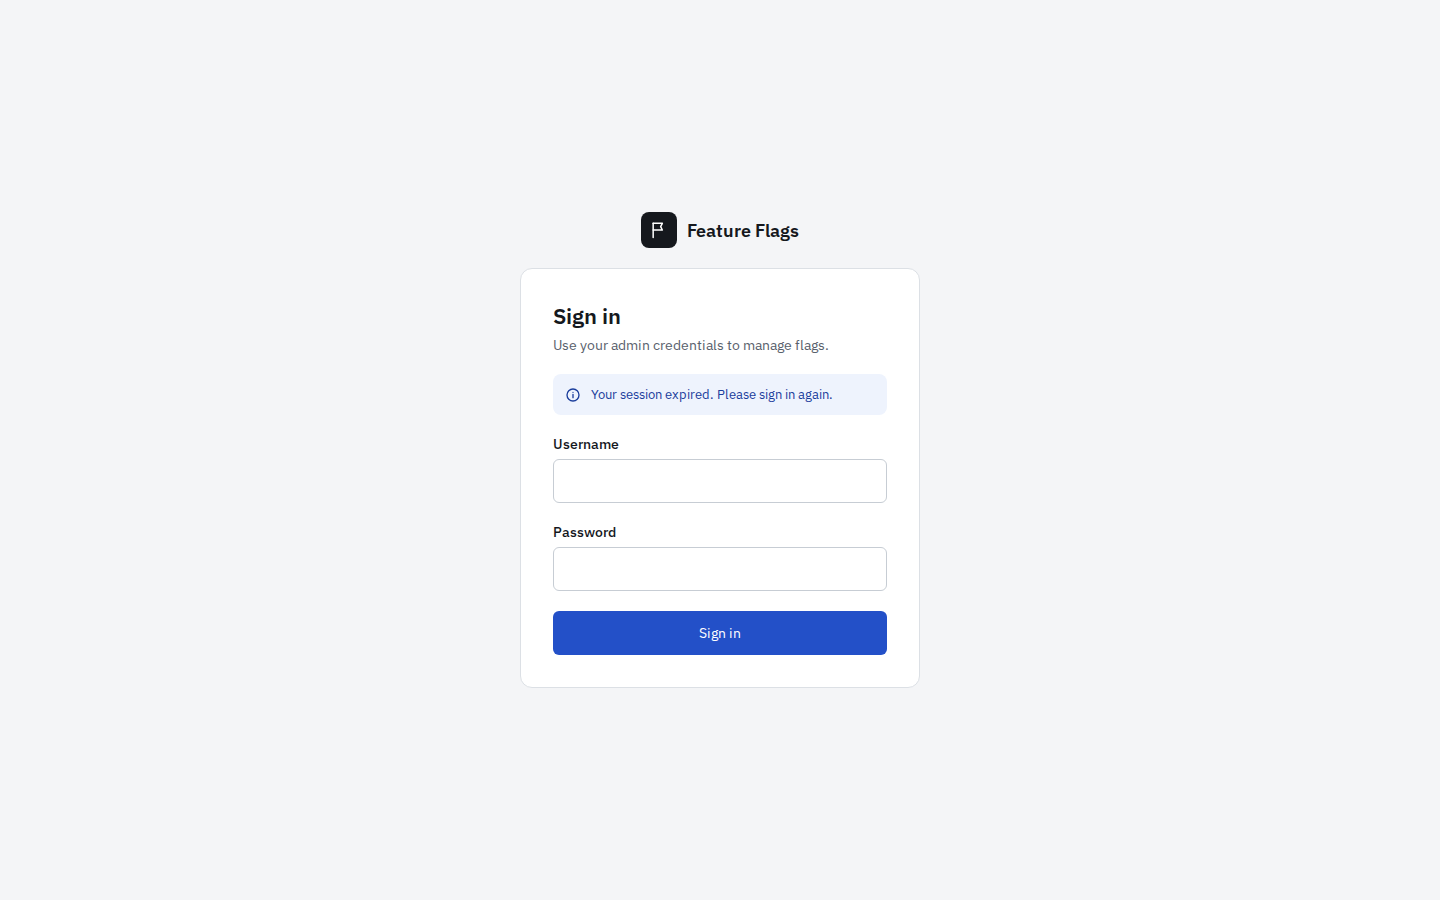
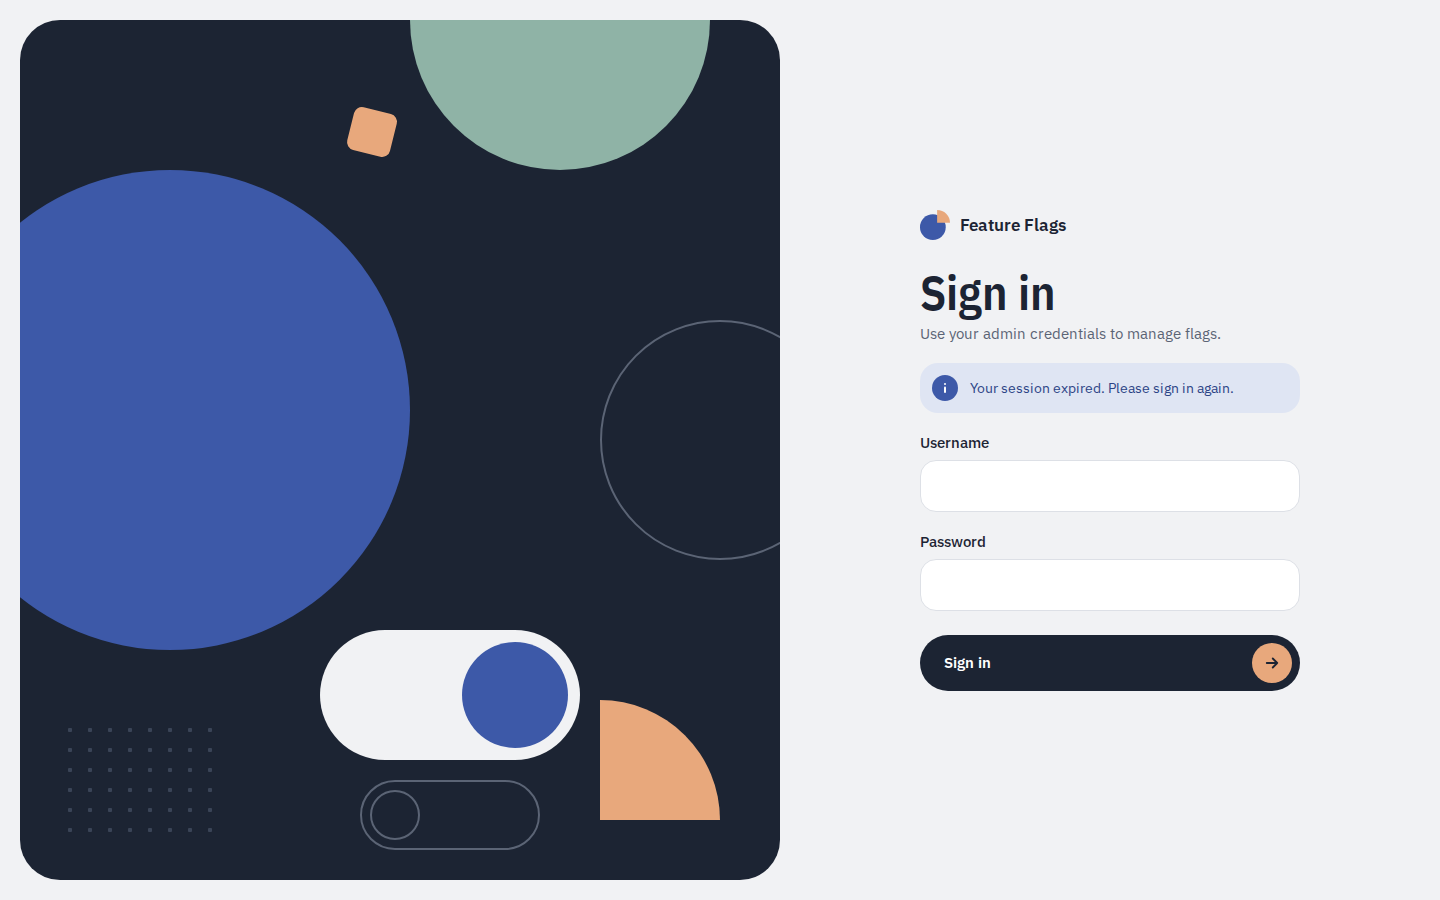
M12 design: re-record the five screenshot baselines and the design gallery
Baselines of the five screens with the redesign (DECISIONS D-005, one entry per screen).
scripts/design-compare.sh now links the designs in docs/product/design/ (D-006);
docs/design-compare/ regenerated. The search icon takes its colour from a token.

AC: AC-STYLE-1, AC-UI-1
Spec: 005 §4.1, §4.8

Claude-Session: https://claude.ai/code/session_0192GzVxcAqoj8Qik4T7WdXQ

diff --git a/docs/design-compare/index.html b/docs/design-compare/index.html
@@ -24,35 +24,35 @@
 <h2>1 · Sign in</h2>
 <div class="pair">
 <figure><figcaption>Built</figcaption><img src="1-sign-in-built.png" alt="Built: 1 · Sign in"></figure>
-<figure><figcaption>Design</figcaption><img src="../design/1%20%C2%B7%20Sign%20in.png" alt="Design: 1 · Sign in"></figure>
+<figure><figcaption>Design</figcaption><img src="../product/design/1%20%C2%B7%20Sign%20in.png" alt="Design: 1 · Sign in"></figure>
 </div>
 </section>
 <section>
 <h2>2 · Flags workspace</h2>
 <div class="pair">
 <figure><figcaption>Built</figcaption><img src="2-flags-workspace-built.png" alt="Built: 2 · Flags workspace"></figure>
-<figure><figcaption>Design</figcaption><img src="../design/2%20%C2%B7%20Flags%20workspace.png" alt="Design: 2 · Flags workspace"></figure>
+<figure><figcaption>Design</figcaption><img src="../product/design/2%20%C2%B7%20Flags%20workspace.png" alt="Design: 2 · Flags workspace"></figure>
 </div>
 </section>
 <section>
 <h2>3 · New flag dialog</h2>
 <div class="pair">
 <figure><figcaption>Built</figcaption><img src="3-new-flag-dialog-built.png" alt="Built: 3 · New flag dialog"></figure>
-<figure><figcaption>Design</figcaption><img src="../design/3%20%C2%B7%20New%20flag%20dialog.png" alt="Design: 3 · New flag dialog"></figure>
+<figure><figcaption>Design</figcaption><img src="../product/design/3%20%C2%B7%20New%20flag%20dialog.png" alt="Design: 3 · New flag dialog"></figure>
 </div>
 </section>
 <section>
 <h2>4 · Delete group confirmation</h2>
 <div class="pair">
 <figure><figcaption>Built</figcaption><img src="4-delete-group-confirmation-built.png" alt="Built: 4 · Delete group confirmation"></figure>
-<figure><figcaption>Design</figcaption><img src="../design/4%20%C2%B7%20Delete%20group%20confirmation.png" alt="Design: 4 · Delete group confirmation"></figure>
+<figure><figcaption>Design</figcaption><img src="../product/design/4%20%C2%B7%20Delete%20group%20confirmation.png" alt="Design: 4 · Delete group confirmation"></figure>
 </div>
 </section>
 <section>
 <h2>5 · Audit log</h2>
 <div class="pair">
 <figure><figcaption>Built</figcaption><img src="5-audit-log-built.png" alt="Built: 5 · Audit log"></figure>
-<figure><figcaption>Design</figcaption><img src="../design/5%20%C2%B7%20Audit%20log.png" alt="Design: 5 · Audit log"></figure>
+<figure><figcaption>Design</figcaption><img src="../product/design/5%20%C2%B7%20Audit%20log.png" alt="Design: 5 · Audit log"></figure>
 </div>
 </section>
 </body>

diff --git a/frontend/src/features/groups/GroupList.tsx b/frontend/src/features/groups/GroupList.tsx
@@ -114,7 +114,7 @@ export function SearchIcon() {
       height="16"
       viewBox="0 0 24 24"
       fill="none"
-      stroke="#5B6475"
+      stroke="currentColor"
       strokeWidth="2"
       strokeLinecap="round"
       aria-hidden="true"

diff --git a/frontend/src/features/groups/GroupPanel.module.css b/frontend/src/features/groups/GroupPanel.module.css
@@ -162,6 +162,7 @@
   left: 16px;
   top: 50%;
   margin-top: -8px;
+  color: var(--color-text-muted);
   pointer-events: none;
 }
 .searchInput {

diff --git a/frontend/src/features/audit/AuditPage.module.css b/frontend/src/features/audit/AuditPage.module.css
@@ -92,6 +92,7 @@
   left: 16px;
   top: 50%;
   margin-top: -8px;
+  color: var(--color-text-muted);
   pointer-events: none;
 }
 .searchInput {

diff --git a/frontend/src/features/groups/GroupList.module.css b/frontend/src/features/groups/GroupList.module.css
@@ -31,6 +31,7 @@
   left: 16px;
   top: 50%;
   margin-top: -8px;
+  color: var(--color-text-muted);
   pointer-events: none;
 }
 .searchInput {

diff --git a/docs/specs/005-ui-redesign/builder/DECISIONS.md b/docs/specs/005-ui-redesign/builder/DECISIONS.md
@@ -40,3 +40,26 @@ host and packages them in images that copy the runtime stages of the repo Docker
 OS package upgrade (dev helper outside the repo). So locally gates 11, 12, 13 and the image scan
 of gate 10 cannot run through `make verify`; CI (`make verify-all` in `.github/workflows/ci.yml`)
 runs them on every push. No repository file changes for this.
+
+## D-005 · 2026-10-20 · 4.1, testing.md 11.6 item 2 · Screenshot baselines re-recorded for the redesign
+
+Reason for all five: spec 005 replaces the look of every screen (designs 1 to 5 of
+`docs/product/design/`). Recorded with `--update-snapshots` on `chromium-desktop` in the official
+Playwright image (`mcr.microsoft.com/playwright:v1.63.0-noble`) against a fresh stack seeded by
+`scripts/lib/seed-shots.sh`, UI built from the redesign code; then checked with `--repeat-each=2`.
+
+- Screen 1, sign in: `1-sign-in-chromium-desktop-linux.png` (art panel, dark Sign in button).
+- Screen 2, flags workspace: `2-flags-workspace-chromium-desktop-linux.png` (pill top bar, pie,
+  header card, row cards).
+- Screen 3, new flag dialog: `3-new-flag-dialog-chromium-desktop-linux.png` (dialog shapes,
+  52 px fields, initial state shape).
+- Screen 4, delete group confirmation: `4-delete-group-confirmation-chromium-desktop-linux.png`
+  (shape cluster, flag list marks).
+- Screen 5, audit log: `5-audit-log-chromium-desktop-linux.png` (ink header card, row cards,
+  labels with shapes).
+
+## D-006 · 2026-10-20 · 4.8 · `scripts/design-compare.sh` reads `docs/product/design/`
+
+The gallery linked the design PNGs at `../design/`, the folder before the docs split. It now links
+`../product/design/` (spec 005 section 4.8 names this fix). `docs/design-compare/` regenerated
+from the new baselines.

diff --git a/docs/specs/005-ui-redesign/builder/STATE.md b/docs/specs/005-ui-redesign/builder/STATE.md
@@ -17,17 +17,17 @@ M12 running. Phases A and B done (tokens, components, all five screens, tests AC
 2. AC-UI-6 ARIA snapshots (`frontend/e2e/ui/aria.spec.ts`), no `frontend/src/` change.
 3. Font package, tokens, global styles, components; AC-STYLE-1 v2; tests AC-UI-1, 2, 3, 9 (d95afcd).
 4. Screens (shell, sign-in, workspace, dialogs, audit); pie; tests AC-UI-4, 5, 6 (4a662ee).
-5. Layout and long data: tests AC-UI-7, AC-UI-8; header shapes clipped in a layer.
+5. Layout and long data: tests AC-UI-7, AC-UI-8; header shapes clipped in a layer (39b0c99).
+6. Screenshot baselines re-recorded (D-005); design-compare regenerated (D-006).
 
 ## Next 3 steps
 
-1. Check the states of design 6 (toasts, sign-in error, field error, switch in flight, Edit
-   flag, Delete flag, 404) against the built UI.
-2. Re-record the five screenshot baselines (`FF_UPDATE_BASELINES=1`; one DECISIONS entry per screen),
-   regenerate `docs/design-compare/` (`scripts/design-compare.sh`, fix its path to
-   `docs/product/design/`).
-3. Release: next free minor on main (VERSION, CHANGELOG); milestone audit; merge origin/main;
-   verify-all; PR ready.
+1. Release: merge origin/main, read VERSION there, next free minor (VERSION, CHANGELOG.md,
+   frontend/package.json version if it follows VERSION); MILESTONE = `12 complete`.
+2. Milestone audit (spec 8): spec-auditor, test-auditor, design-checker (six designs, include
+   `6 · States`), final-reviewer (frontend). Fix BLOCKER and CRITICAL.
+3. `make verify-all` (CI is authoritative for gates 11-13, D-004); copy the report; `M12: complete`;
+   PR summary comment; tick definition of done; mark PR ready.
 
 ## Open escalations and blockers
 

diff --git a/docs/specs/005-ui-redesign/builder/PROGRESS.md b/docs/specs/005-ui-redesign/builder/PROGRESS.md
@@ -9,4 +9,5 @@ The SHA of a row is filled in by the next commit (a commit cannot contain its ow
 | 2026-10-20 | 8f4a50a | M12 | AC-UI-6 ARIA snapshots recorded from the pre-redesign code (D-003) | verify-fast: as baseline (gate 14 only AC-CACHE-9, AC-OPS-1/2: e2e-only); aria.spec 10/10 on a local stack |
 | 2026-10-20 | d95afcd | M12 | font package, tokens, global styles, shared components; style.spec to AC-STYLE-1 v2; e2e tests AC-UI-1, 2, 3, 9 | verify-fast: as baseline; local e2e chromium-desktop + narrow 90/91 (only the old screenshot baselines fail, re-recorded in phase C) |
 | 2026-10-20 | 4a662ee | M12 | screens: shell, sign-in art panel, workspace (pie, header card, row cards), dialogs, audit labels; tests AC-UI-4, 5, 6 | verify-fast: as baseline; local e2e design.spec 46/46 (desktop + narrow); AC-UI-4/5 seen failing on the pre-redesign UI |
-| 2026-10-20 | (this) | M12 | header shapes in a clipping layer; e2e tests AC-UI-7, AC-UI-8 | verify-fast: as baseline; local e2e chromium-desktop + narrow, repeat-each 2: all pass except the old screenshot baselines |
+| 2026-10-20 | 39b0c99 | M12 | header shapes in a clipping layer; e2e tests AC-UI-7, AC-UI-8 | verify-fast: as baseline; local e2e chromium-desktop + narrow, repeat-each 2: all pass except the old screenshot baselines |
+| 2026-10-20 | (this) | M12 | five screenshot baselines re-recorded (D-005), design-compare path and gallery (D-006), search icon colour from a token | verify-fast: as baseline (gates 15, 16 pass with the new baselines); screenshots + aria 20/20 with repeat-each 2 |
